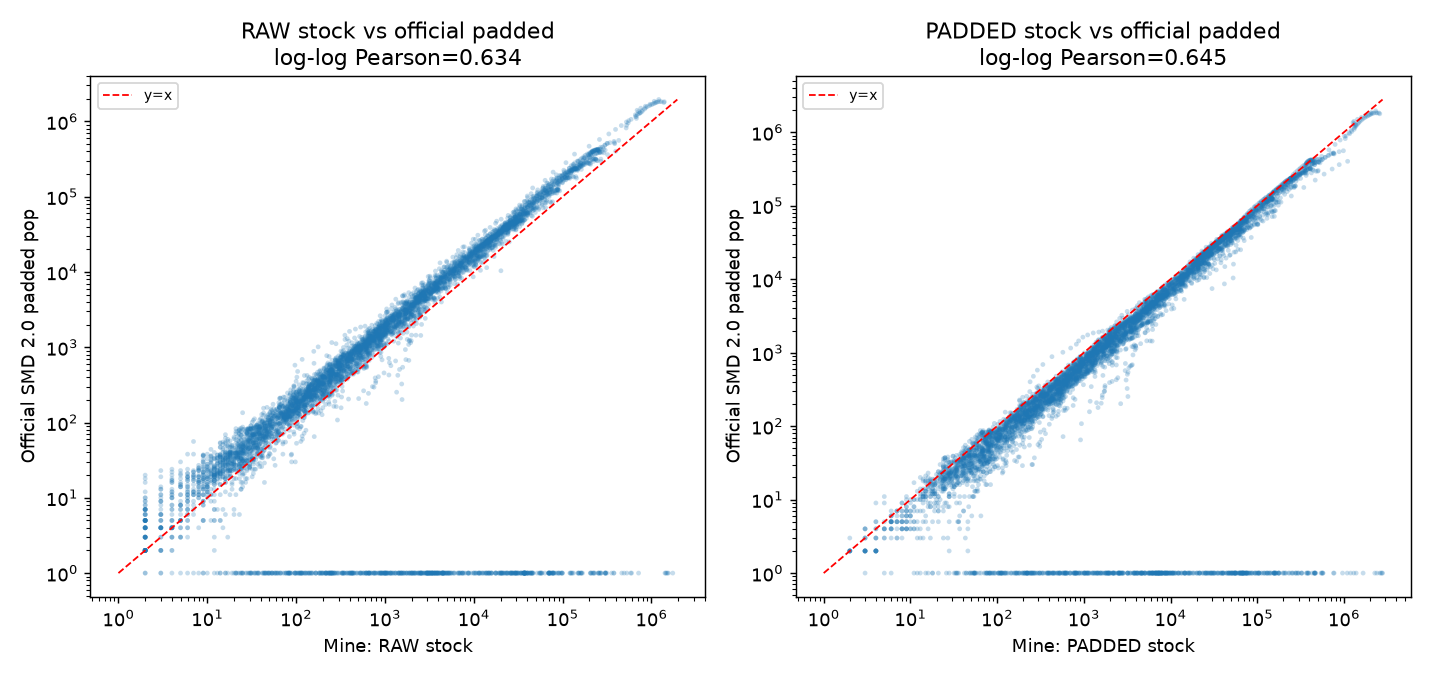
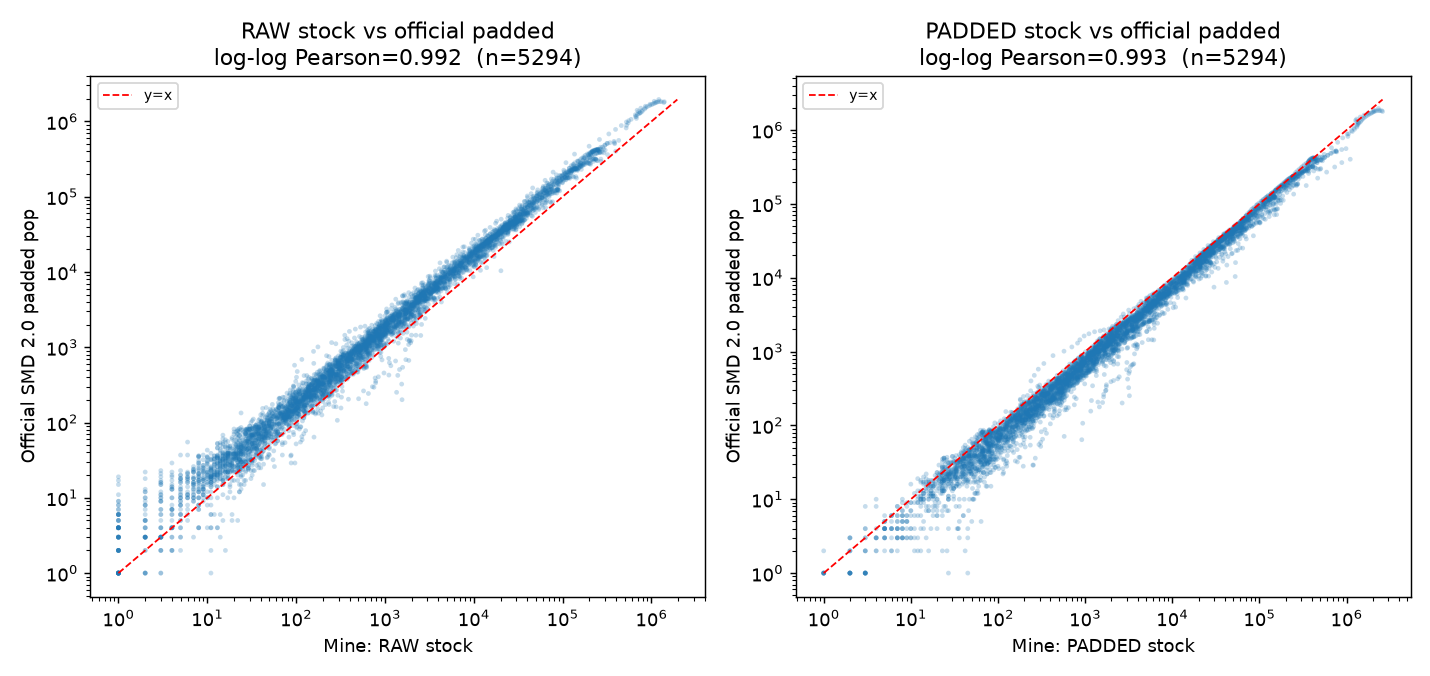
Fix stock scatter to match reported correlation; clarify README method with real field names

diff --git a/05_compare_stock.py b/05_compare_stock.py
@@ -65,14 +65,16 @@ print(f"\nper-country padded-stock time-series Pearson: "
 fig, axes = plt.subplots(1, 2, figsize=(11, 5.2))
 for ax, (col, lab) in zip(axes, [("raw_pop", "RAW stock"),
                                   ("pad_pop", "PADDED stock")]):
-    x = m[col].astype(float) + 1
-    y = m["off_pop"].astype(float) + 1
+    x = m[col].astype(float)
+    y = m["off_pop"].astype(float)
+    ok = (x > 0) & (y > 0)
+    x, y = x[ok], y[ok]
     ax.scatter(x, y, s=7, alpha=0.25, edgecolors="none")
     lim = [1, max(x.max(), y.max())]
     ax.plot(lim, lim, "r--", lw=1, label="y=x")
     r = stats.pearsonr(np.log(x), np.log(y))[0]
     ax.set_xscale("log"); ax.set_yscale("log")
-    ax.set_title(f"{lab} vs official padded\nlog-log Pearson={r:.3f}")
+    ax.set_title(f"{lab} vs official padded\nlog-log Pearson={r:.3f}  (n={len(x)})")
     ax.set_xlabel(f"Mine: {lab}")
     ax.set_ylabel("Official SMD 2.0 padded pop")
     ax.legend(loc="upper left", fontsize=8)

diff --git a/README.en.md b/README.en.md
@@ -45,11 +45,24 @@ openalex_pipeline/
 
 ## Method (following SMD)
 
-1. **Extract**: read S3 parquet directly with DuckDB (column projection + predicate pushdown; raw data never lands on disk), exploding each work's authors into `(author_id, publication_year, country)` and counting.
-2. **Residence country**: for each `author × year`, take the most frequent country as that year's "residence".
-3. **Migration event**: order each author's years; a change in residence vs. the previous observed year is one migration event, dated to the year the new residence first appears.
-4. **Padding (stock denominator)**: if an author has no publication in a year but publishes within the next 2 years, backfill that year with the residence of the next available year so they count toward that year's researcher population (replicating SMD's `padded_population_of_researchers`).
-5. **Aggregate**: country-year stock, in/out/net migration and rates; bilateral flows `(year, from, to, n_migrations)`.
+Field names below match the scripts and data exactly. In OpenAlex, each work's author has an `author_id`, a `publication_year`, and a `country` (the country of the author's affiliation).
+
+**Step 1 — Extract (`01_extract.py` / `02_extract_big.py`)**
+Read the cloud data directly with DuckDB (only the needed columns; raw data never lands on disk). Explode every author of every work and count "how many times a given author, in a given year, appears in a given country", producing a 4-column table: `author_id, year, country, n` (`n` = count).
+
+**Step 2 — Residence per author-year (`residence` table in `03_migration.py`)**
+An author may list several countries in one year. Rule: **the country with the highest count `n` is that year's residence** (ties broken by the larger country code, only for reproducibility). Each author-year keeps one row: `author_id, year, residence`.
+
+**Step 3 — Migration events (`events` table)**
+Sort each author's rows by year and compare consecutively: **if this year's residence differs from the previous observed year's, that is one migration event**, recorded as "from the previous country to this year's country", dated to this year.
+
+**Step 4 — Padding the researcher count (`04_padding.py`)**
+An author who skips publishing in a year "disappears" that year. Following SMD: **if they publish again within the next 1–2 years, treat them as still present that year**, backfilling with the residence of the next available year, so they still count toward that year's researcher total. This only affects the researcher count, not the events from Step 3.
+
+**Step 5 — Aggregate (export CSV)**
+Aggregate by country and year into two outputs:
+- Country-year: `n_researchers`, `inmigration`, `outmigration`, `netmigration`, and their rates.
+- Bilateral flows: `year, from_country, to_country, n_migrations`.
 
 ---
 
@@ -117,6 +130,7 @@ After aligning the slice (gender=all, field=all, overlapping years) with the off
 
 - Top 2022 corridors match closely: USA→CHN (official 26073 / here 29997), GBR→USA (11426 / 12461), IND→USA (7421 / 9790), etc.
 - **Absolute stock levels** differ systematically from the official padded figure (raw ≈ 58% of official; after 2-year backfill ≈ 137%), because SMD's exact padding is proprietary and unpublished. **Prefer rates / relative measures or normalize**, rather than comparing absolute stocks directly.
+- The stock scatter plots only include points where **both** sources are > 0. A few country-years appear in only one source (coverage mismatch between the two datasets, not a value disagreement); including them would distort the log-log correlation.
 - In/out counts correlated ~0.98 with the official data in earlier analysis (same slice); this round focuses on bilateral flows and stock.
 
 ![Stock consistency](results/compare_stock_padding.png)
